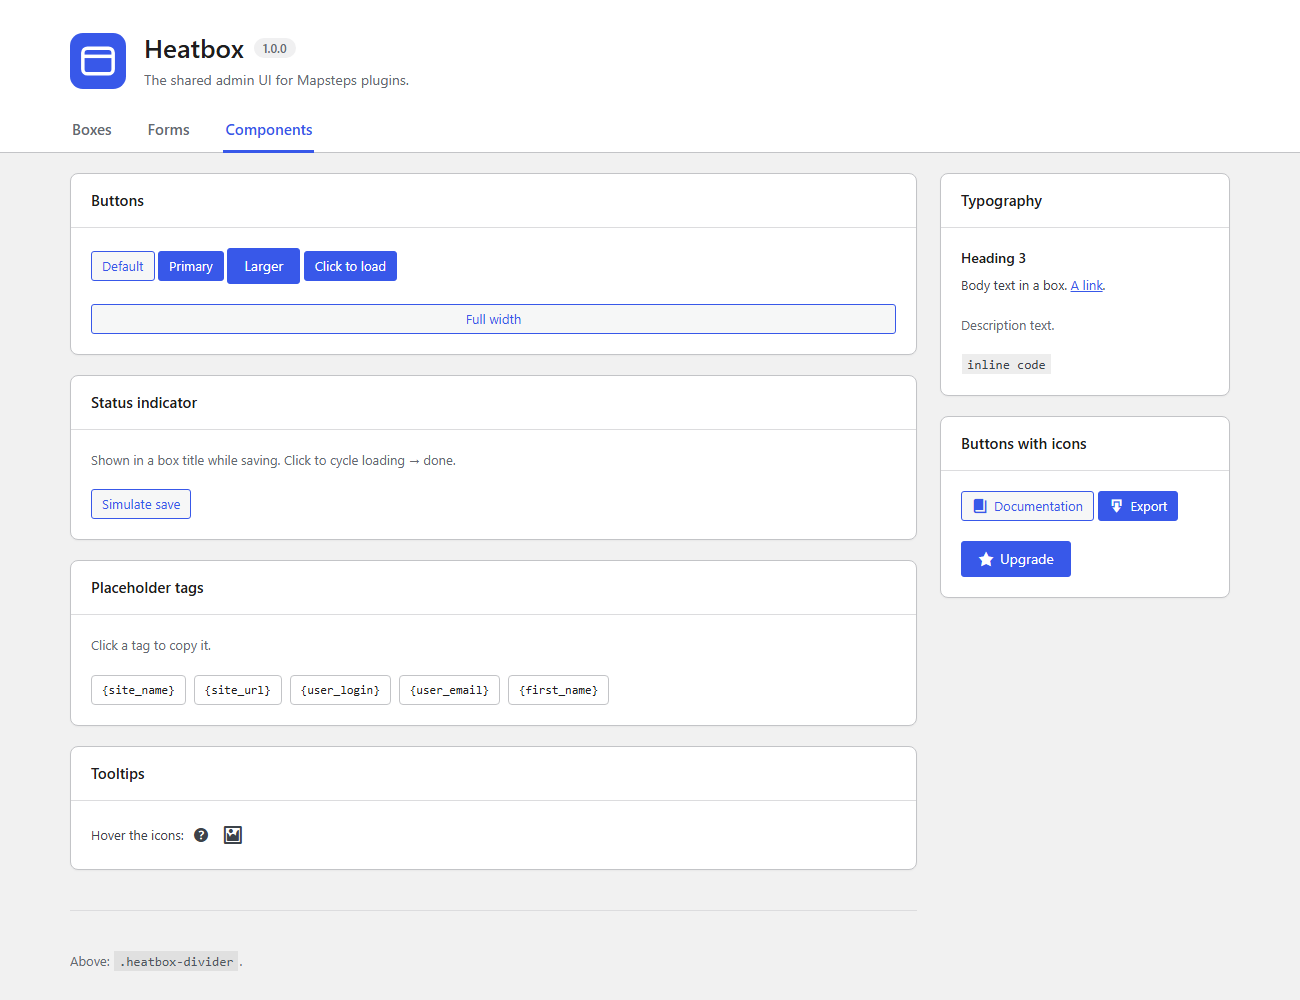
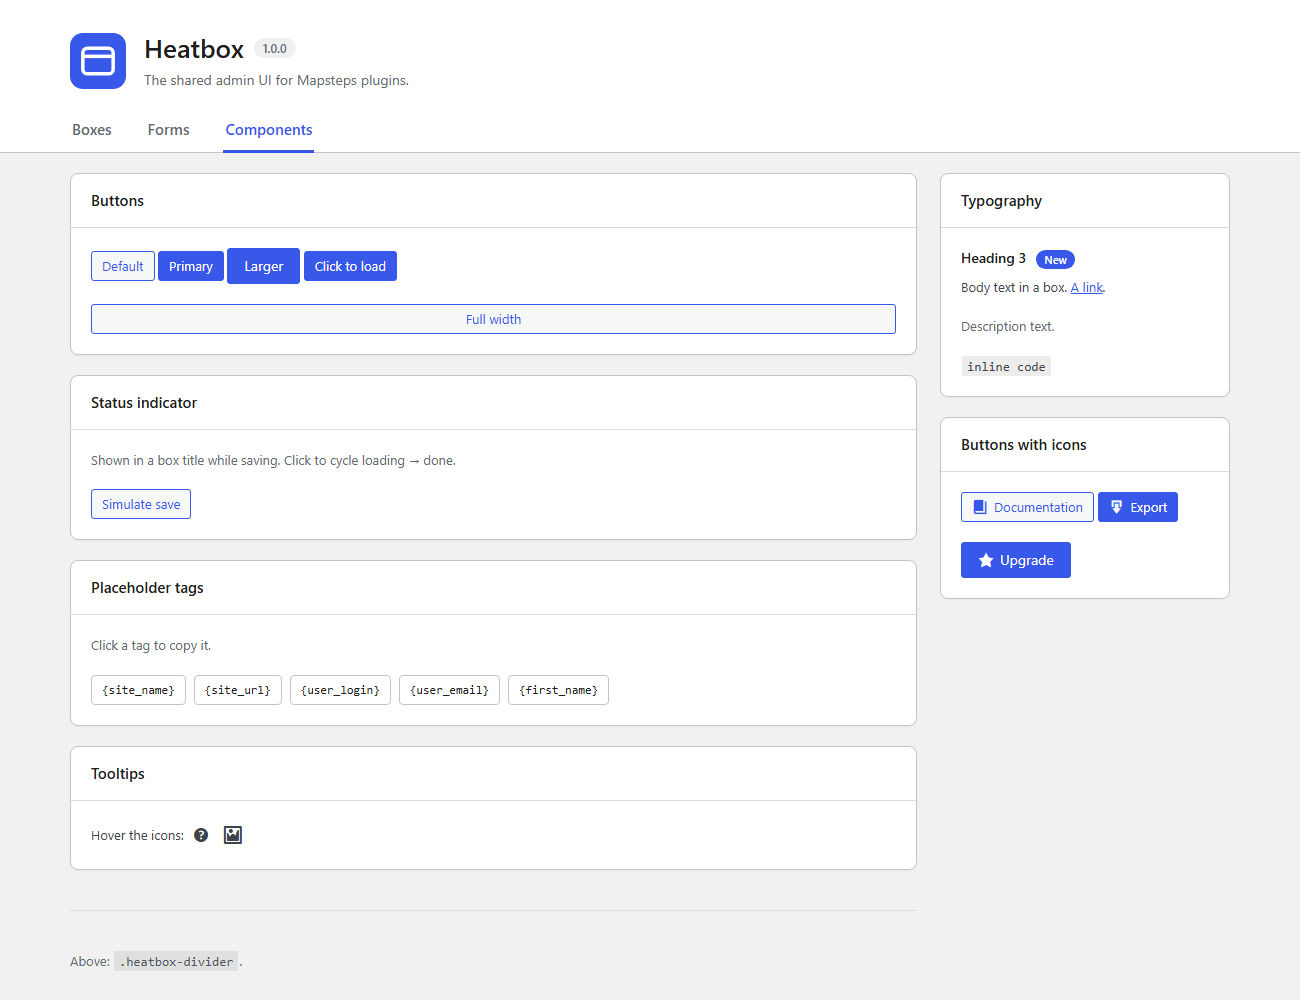
Add badge, locked box and feature list components
- .heatbox-badge: pill badge, e.g. PRO next to a box title
- .heatbox.is-locked: fades and disables box content (PRO-only settings)
- .heatbox-features: two-column feature list with check marks
- Showcase sample data, README table and screenshots updated

Changed region(s): [[0.7385, 0.434, 0.8923, 0.527], [0.7385, 0.248, 0.8615, 0.372], [0.7692, 0.558, 0.8, 0.589]]

diff --git a/heatbox.css b/heatbox.css
@@ -292,6 +292,20 @@ body {
 	border-radius: 999px;
 }
 
+/* Badge, e.g. next to a box title: <span class="heatbox-badge">PRO</span> */
+.heatbox-badge {
+	display: inline-block;
+	margin-inline-start: 6px;
+	padding: 2px 8px;
+	font-size: 11px;
+	font-weight: 600;
+	line-height: 1.4;
+	vertical-align: middle;
+	color: var(--heatbox-text-on-accent);
+	background: var(--heatbox-accent);
+	border-radius: 999px;
+}
+
 /* 6. Box
    ========================================================================== */
 
@@ -368,6 +382,64 @@ body {
 	border-bottom-left-radius: 0;
 	border-bottom-right-radius: 0;
 	box-shadow: none;
+}
+
+/**
+ * Locked box (e.g. PRO-only settings): everything except the title is faded
+ * and not clickable. Add the inert attribute to the content for keyboard users.
+ *
+ * <div class="heatbox is-locked"><h2>Title <span class="heatbox-badge">PRO</span></h2><table class="form-table" inert>…</table></div>
+ */
+.heatbox.is-locked > :not(h2) {
+	opacity: 0.55;
+	pointer-events: none;
+	user-select: none;
+}
+
+/**
+ * Feature list: two columns with check marks, one column on small screens.
+ *
+ * <ul class="heatbox-features">
+ *   <li><span class="dashicons dashicons-yes"></span><div><h3>Feature</h3><p class="description">…</p></div></li>
+ * </ul>
+ */
+.heatbox-features {
+	display: grid;
+	grid-template-columns: repeat(2, minmax(0, 1fr));
+	gap: 20px 32px;
+	margin: 0;
+	padding: 0;
+	list-style: none;
+}
+
+.heatbox-features li {
+	display: flex;
+	gap: 12px;
+	margin: 0;
+}
+
+.heatbox-features .dashicons {
+	flex-shrink: 0;
+	width: 22px;
+	height: 22px;
+	font-size: 22px;
+	color: var(--heatbox-accent);
+	background: var(--heatbox-accent-soft);
+	border-radius: 50%;
+}
+
+.heatbox .heatbox-features h3 {
+	margin: 1px 0 4px;
+}
+
+.heatbox .heatbox-features p {
+	margin: 0;
+}
+
+@media screen and (max-width: 782px) {
+	.heatbox-features {
+		grid-template-columns: 1fr;
+	}
 }
 
 /* 7. Settings & form controls

diff --git a/showcase/template.php b/showcase/template.php
@@ -59,10 +59,10 @@ $heatbox_img = HEATBOX_URL . 'showcase/';
 					</div>
 				</div>
 
-				<!-- Box with settings table + attached primary CTA (becomes the box footer) -->
-				<div class="heatbox">
-					<h2>Appearance</h2>
-					<table class="form-table">
+				<!-- Locked box with a badge + attached primary CTA (becomes the box footer) -->
+				<div class="heatbox is-locked">
+					<h2>Appearance <span class="heatbox-badge">PRO</span></h2>
+					<table class="form-table" inert>
 						<tr>
 							<th scope="row">Accent color</th>
 							<td><input type="text" class="regular-text" value="#3858e9"></td>
@@ -95,14 +95,40 @@ $heatbox_img = HEATBOX_URL . 'showcase/';
 					</div>
 				</div>
 
-				<!-- Box with an attached container holding free content -->
+				<!-- Feature list + attached container holding free content -->
 				<div class="heatbox">
-					<h2>Go PRO</h2>
+					<h2>Go PRO <span class="heatbox-badge">PRO</span></h2>
 					<div class="heatbox-content">
-						<h3>Advanced settings</h3>
-						<p class="description">Unlock additional options to fine-tune every detail.</p>
-						<h3>Priority support</h3>
-						<p class="description">Get help from the developers directly, usually within a day.</p>
+						<ul class="heatbox-features">
+							<li>
+								<span class="dashicons dashicons-yes"></span>
+								<div>
+									<h3>Advanced settings</h3>
+									<p class="description">Unlock additional options to fine-tune every detail.</p>
+								</div>
+							</li>
+							<li>
+								<span class="dashicons dashicons-yes"></span>
+								<div>
+									<h3>Priority support</h3>
+									<p class="description">Get help from the developers directly, usually within a day.</p>
+								</div>
+							</li>
+							<li>
+								<span class="dashicons dashicons-yes"></span>
+								<div>
+									<h3>Unlimited sites</h3>
+									<p class="description">Use the plugin on as many websites as you like.</p>
+								</div>
+							</li>
+							<li>
+								<span class="dashicons dashicons-yes"></span>
+								<div>
+									<h3>Import &amp; export</h3>
+									<p class="description">Move your settings between sites in seconds.</p>
+								</div>
+							</li>
+						</ul>
 					</div>
 				</div>
 				<div class="heatbox-cta-container is-attached">
@@ -365,7 +391,7 @@ $heatbox_img = HEATBOX_URL . 'showcase/';
 				<div class="heatbox">
 					<h2>Typography</h2>
 					<div class="heatbox-content">
-						<h3>Heading 3</h3>
+						<h3>Heading 3 <span class="heatbox-badge">New</span></h3>
 						<p>Body text in a box. <a href="#">A link</a>.</p>
 						<p class="description">Description text.</p>
 						<p><code>inline code</code></p>

diff --git a/README.md b/README.md
@@ -49,6 +49,9 @@ All colors, borders, radii and spacing are `--heatbox-*` custom properties (sect
 | `.heatbox-container` (`-wide`, `-center`) | Max-width container |
 | `.heatbox-column-container` > `.heatbox-main` + `.heatbox-sidebar` | Two columns |
 | `.heatbox` > `h2` + `.heatbox-content` | Box (`.is-grouped` for several sections) |
+| `.heatbox.is-locked` | Faded, non-clickable box content (e.g. PRO-only settings) |
+| `.heatbox-badge` | Pill badge, e.g. PRO next to a title |
+| `.heatbox-features` > `li` > `.dashicons` + `div` | Two-column feature list with check marks |
 | `.heatbox .form-table`, `.setting-fields` > `.setting-field` | Settings |
 | `.label.checkbox-label` / `.label.radio-label` + `.indicator` | Checkbox / radio |
 | `.toggle-switch` > `input` + `.switch-track` > `.switch-thumb` | Toggle |
